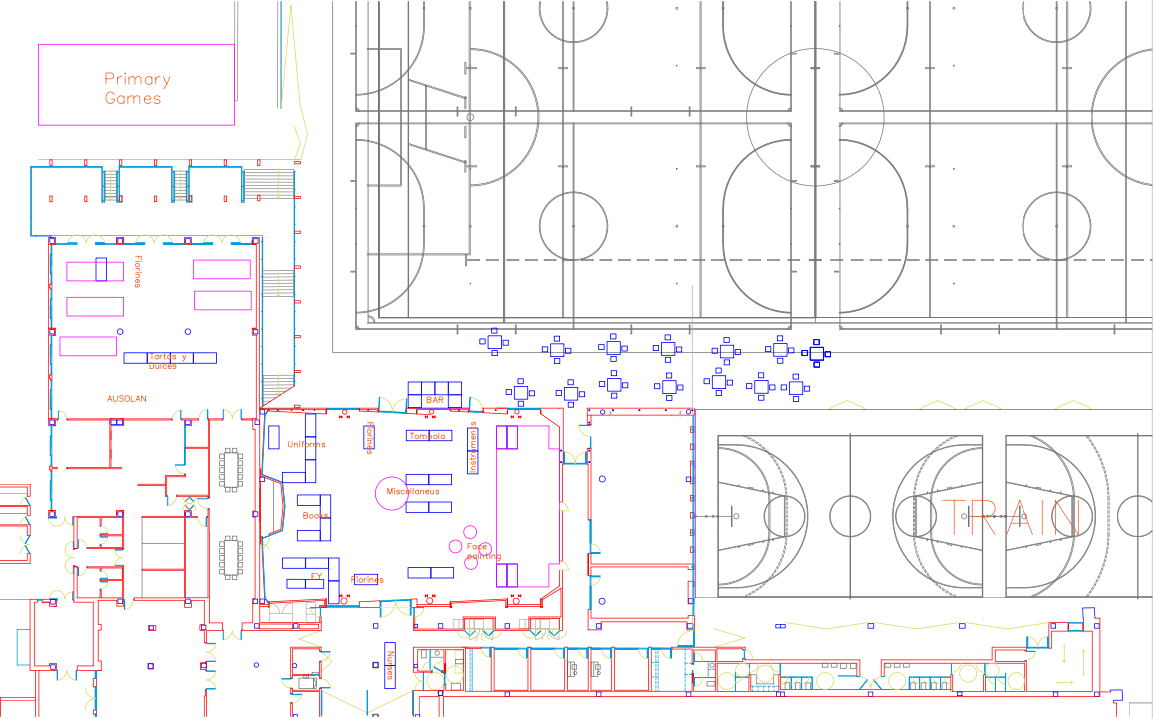
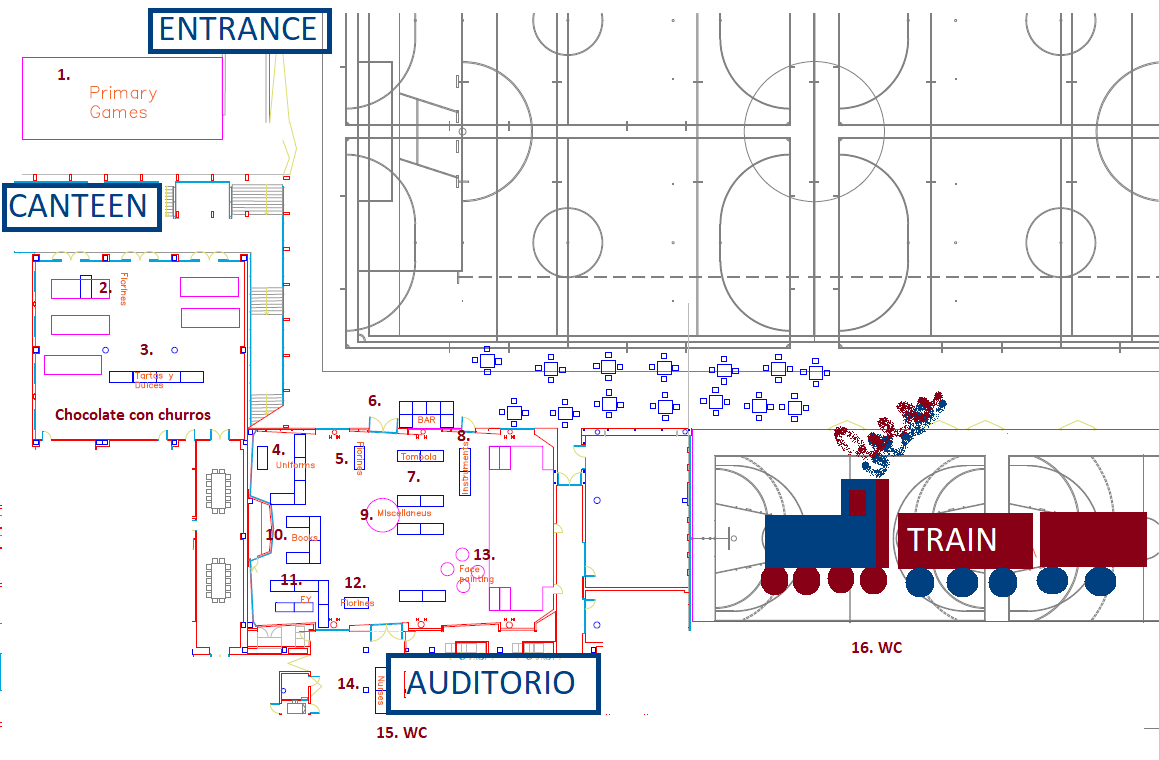
update map and stall names

diff --git a/index.html b/index.html
@@ -26,27 +26,27 @@
         <h2 id="subtitle" class="lang"></h2>
         <img id="eventMap" class="event-map-image" src="src/img/map.png" />
         <section id="eventStallList" class="text-left">
-<!--            <section id="stallsList">-->
-<!--                <h3 class="lang" id="stalls"></h3>-->
-<!--                <ol>-->
-<!--                <li id="eventStall1" class="lang"></li>-->
-<!--                <li id="eventStall2" class="lang"></li>-->
-<!--                <li id="eventStall3" class="lang"></li>-->
-<!--                <li id="eventStall4" class="lang"></li>-->
-<!--                <li id="eventStall5" class="lang"></li>-->
-<!--                <li id="eventStall6" class="lang"></li>-->
-<!--                <li id="eventStall7" class="lang"></li>-->
-<!--                <li id="eventStall8" class="lang"></li>-->
-<!--                <li id="eventStall9" class="lang"></li>-->
-<!--                <li id="eventStall10" class="lang"></li>-->
-<!--                <li id="eventStall11" class="lang"></li>-->
-<!--                <li id="eventStall12" class="lang"></li>-->
-<!--                <li id="eventStall13" class="lang"></li>-->
-<!--                <li id="eventStall14" class="lang"></li>-->
-<!--                <li id="eventStall15" class="lang"></li>-->
-<!--                <li id="eventStall16" class="lang"></li>-->
-<!--                </ol>-->
-<!--            </section>-->
+            <section id="stallsList">
+                <h3 class="lang" id="stalls"></h3>
+                <ol>
+                <li id="eventStall1" class="lang"></li>
+                <li id="eventStall2" class="lang"></li>
+                <li id="eventStall3" class="lang"></li>
+                <li id="eventStall4" class="lang"></li>
+                <li id="eventStall5" class="lang"></li>
+                <li id="eventStall6" class="lang"></li>
+                <li id="eventStall7" class="lang"></li>
+                <li id="eventStall8" class="lang"></li>
+                <li id="eventStall9" class="lang"></li>
+                <li id="eventStall10" class="lang"></li>
+                <li id="eventStall11" class="lang"></li>
+                <li id="eventStall12" class="lang"></li>
+                <li id="eventStall13" class="lang"></li>
+                <li id="eventStall14" class="lang"></li>
+                <li id="eventStall15" class="lang"></li>
+                <li id="eventStall16" class="lang"></li>
+                </ol>
+            </section>
             <section id="timesList">
                 <h3 class="lang" id="eventTimes"></h3>
                 <ul>

diff --git a/src/lang/lang_es.js b/src/lang/lang_es.js
@@ -4,22 +4,22 @@ lang.es.bioorInOurHearts = "BIOOR en Nuestros Corazones";
 lang.es.subtitle = "¡Gracias por venir! Aquí tienes una lista de puestos y eventos para que puedas disfrutar al máximo del día.";
 
 lang.es.stalls = "Puestos";
-lang.es.eventStall1 = "Mesa de Fiorines";
-lang.es.eventStall2 = "Churros";
-lang.es.eventStall3 = "Pintacaras";
-lang.es.eventStall4 = "Rifa";
-lang.es.eventStall5 = "Castillo hinchable";
-lang.es.eventStall6 = "Castillo hinchable";
-lang.es.eventStall7 = "Castillo hinchable";
-lang.es.eventStall8 = "Castillo hinchable";
-lang.es.eventStall9 = "Castillo hinchable";
-lang.es.eventStall10 = "Castillo hinchable";
-lang.es.eventStall11 = "Castillo hinchable";
-lang.es.eventStall12 = "Castillo hinchable";
-lang.es.eventStall13 = "Castillo hinchable";
-lang.es.eventStall14 = "Castillo hinchable";
-lang.es.eventStall15 = "Castillo hinchable";
-lang.es.eventStall16 = "Castillo hinchable";
+lang.es.eventStall1 = "Juegos de primaria";
+lang.es.eventStall2 = "Fiorines";
+lang.es.eventStall3 = "Tartas y dulces";
+lang.es.eventStall4 = "Uniformes";
+lang.es.eventStall5 = "Fiorines";
+lang.es.eventStall6 = "Bar";
+lang.es.eventStall7 = "Tómbola";
+lang.es.eventStall8 = "Instrumentos musicales";
+lang.es.eventStall9 = "Misceláneo";
+lang.es.eventStall10 = "Libros";
+lang.es.eventStall11 = "Early Years";
+lang.es.eventStall12 = "Fiorines";
+lang.es.eventStall13 = "Pintacaras";
+lang.es.eventStall14 = "Enfermería";
+lang.es.eventStall15 = "Baños";
+lang.es.eventStall16 = "Baños";
 
 lang.es.eventTimes = "Horario de eventos";
 lang.es.timedEvent1 = "13:30 - Concierto";

diff --git a/src/lang/lang_en.js b/src/lang/lang_en.js
@@ -4,22 +4,22 @@ lang.en.bioorInOurHearts = "BIOOR in our Hearts";
 lang.en.subtitle = "Thank you for coming! Here's a list of stalls and events so you can make the most of your day.";
 
 lang.en.stalls = "Stalls";
-lang.en.eventStall1 = "Fiorin table";
-lang.en.eventStall2 = "Churros";
-lang.en.eventStall3 = "Face painting";
-lang.en.eventStall4 = "Raffle";
-lang.en.eventStall5 = "Bouncy castle";
-lang.en.eventStall6 = "Bouncy castle";
-lang.en.eventStall7 = "Bouncy castle";
-lang.en.eventStall8 = "Bouncy castle";
-lang.en.eventStall9 = "Bouncy castle";
-lang.en.eventStall10 = "Bouncy castle";
-lang.en.eventStall11 = "Bouncy castle";
-lang.en.eventStall12 = "Bouncy castle";
-lang.en.eventStall13 = "Bouncy castle";
-lang.en.eventStall14 = "Bouncy castle";
-lang.en.eventStall15 = "Bouncy castle";
-lang.en.eventStall16 = "Bouncy castle";
+lang.en.eventStall1 = "Primary games";
+lang.en.eventStall2 = "Fiorines";
+lang.en.eventStall3 = "Cakes and sweets";
+lang.en.eventStall4 = "Uniforms";
+lang.en.eventStall5 = "Fiorines";
+lang.en.eventStall6 = "Bar";
+lang.en.eventStall7 = "Tombola";
+lang.en.eventStall8 = "Musical instruments";
+lang.en.eventStall9 = "Miscellaneus";
+lang.en.eventStall10 = "Books";
+lang.en.eventStall11 = "Early Years";
+lang.en.eventStall12 = "Fiorines";
+lang.en.eventStall13 = "Face painting";
+lang.en.eventStall14 = "Nurses";
+lang.en.eventStall15 = "Bathrooms";
+lang.en.eventStall16 = "Bathrooms";
 
 lang.en.eventTimes = "Event times";
 lang.en.timedEvent1 = "13:30 - Concert";
